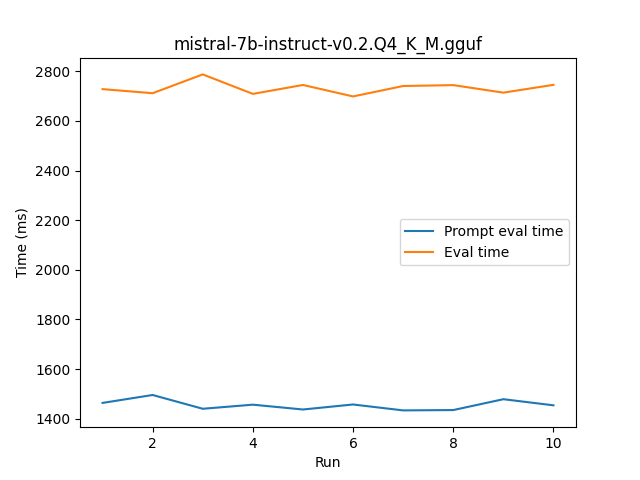
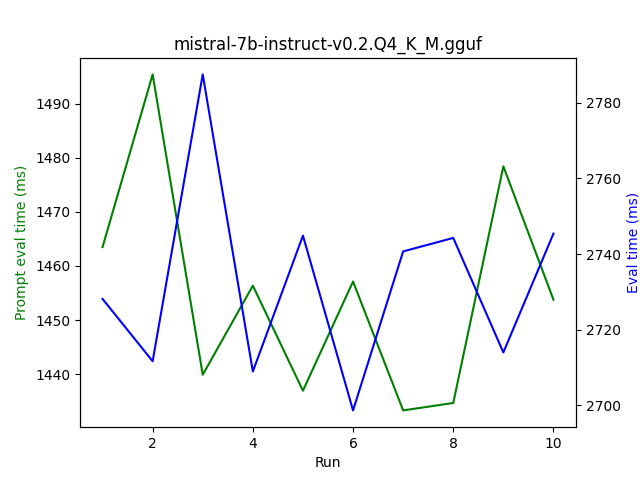
restructure

diff --git a/plotter.py b/plotter.py
@@ -16,8 +16,10 @@ Maximum memory used: 5206 MB
 # For a given model, plot the prompt eval time and the eval time for each run.
 # The x-axis will be the run number, and the y-axis will be the time in ms.
 
-dir = "benchmarks/benchmarks-LP/benchmarks/"
-output_dir = "plots/LP/"
+dir = "benchmarks/"
+# dir = "benchmarks/benchmarks-LP/benchmarks/"
+output_dir = "plots/System plots/"
+# output_dir = "plots/LP/"
 
 # All the folders present in the benchmarks folder are the models
 models = os.listdir(dir)
@@ -49,23 +51,24 @@ for model in models:
         eval_times.append(eval_time)
         # Close the file
         f.close()
-    # Plot the prompt eval time
-    plt.plot(x, prompt_eval_times, label="Prompt eval time")
-    # Plot the eval time
-    plt.plot(x, eval_times, label="Eval time")
+    # Plot the prompt eval time on left y-axis and eval time on right y-axis
+    fig, ax1 = plt.subplots()
+    ax2 = ax1.twinx()
+    ax1.plot(x, prompt_eval_times, 'g-')
+    ax2.plot(x, eval_times, 'b-')
     # Set the title
     plt.title(model)
     # Set the x-axis label
-    plt.xlabel("Run")
+    ax1.set_xlabel('Run')
     # Set the y-axis label
-    plt.ylabel("Time (ms)")
-    # Set the legend
-    plt.legend()
+    ax1.set_ylabel('Prompt eval time (ms)', color='g')
+    ax2.set_ylabel('Eval time (ms)', color='b')
     # Save the plot
-    plt.savefig(output_dir + model + ".png")
+    plt.savefig(output_dir+model+".png")
     # Clear the plot
     plt.clf()
 
+    
 # stop here
 exit(0)
 #=======================================================================================================================
